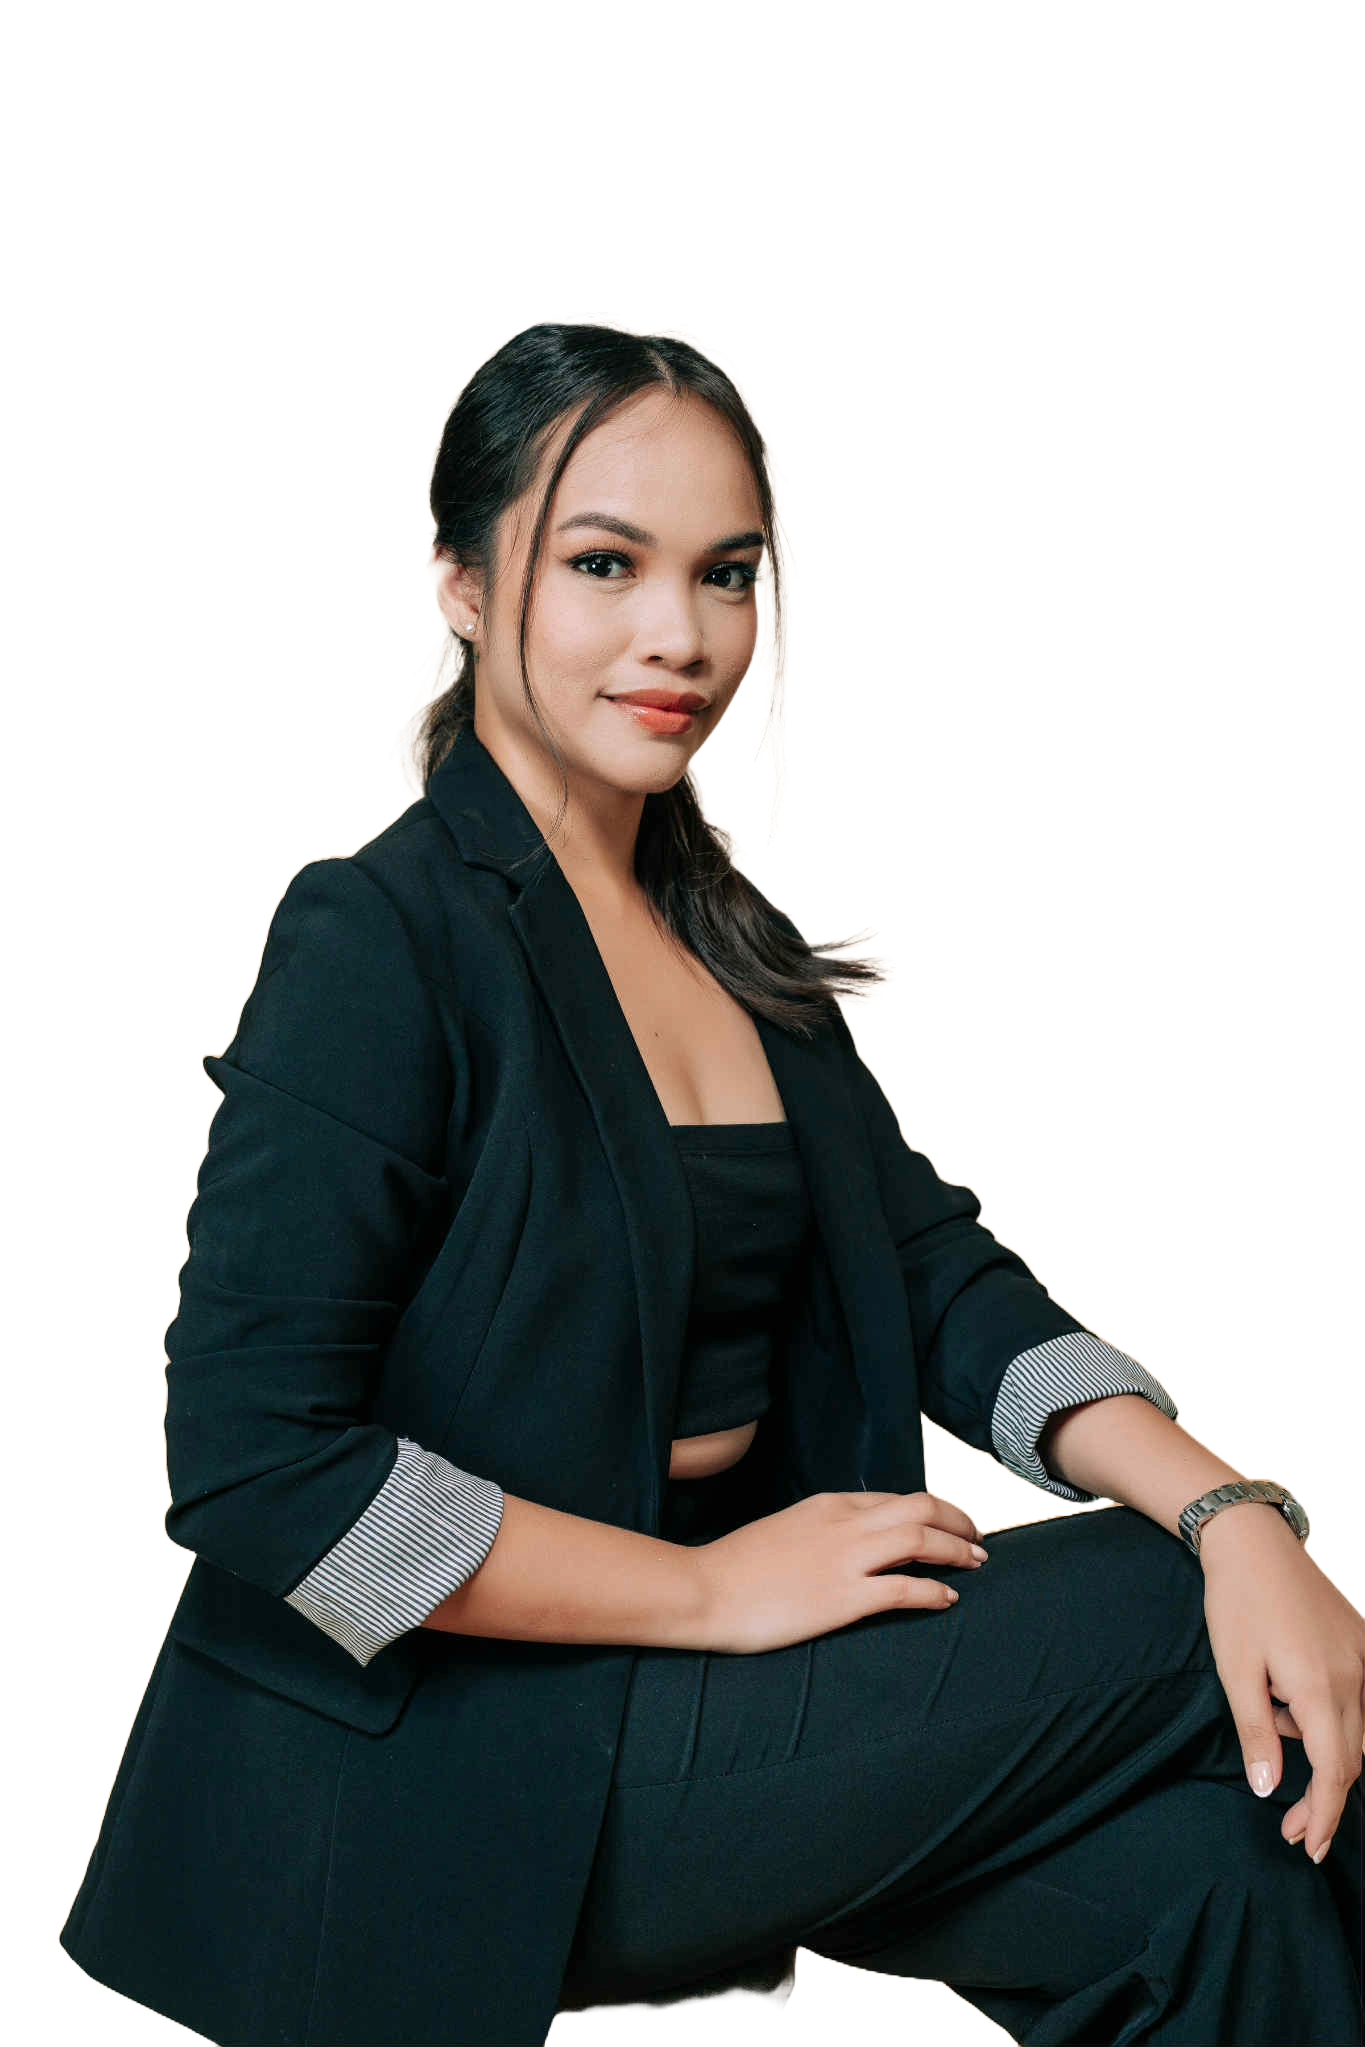
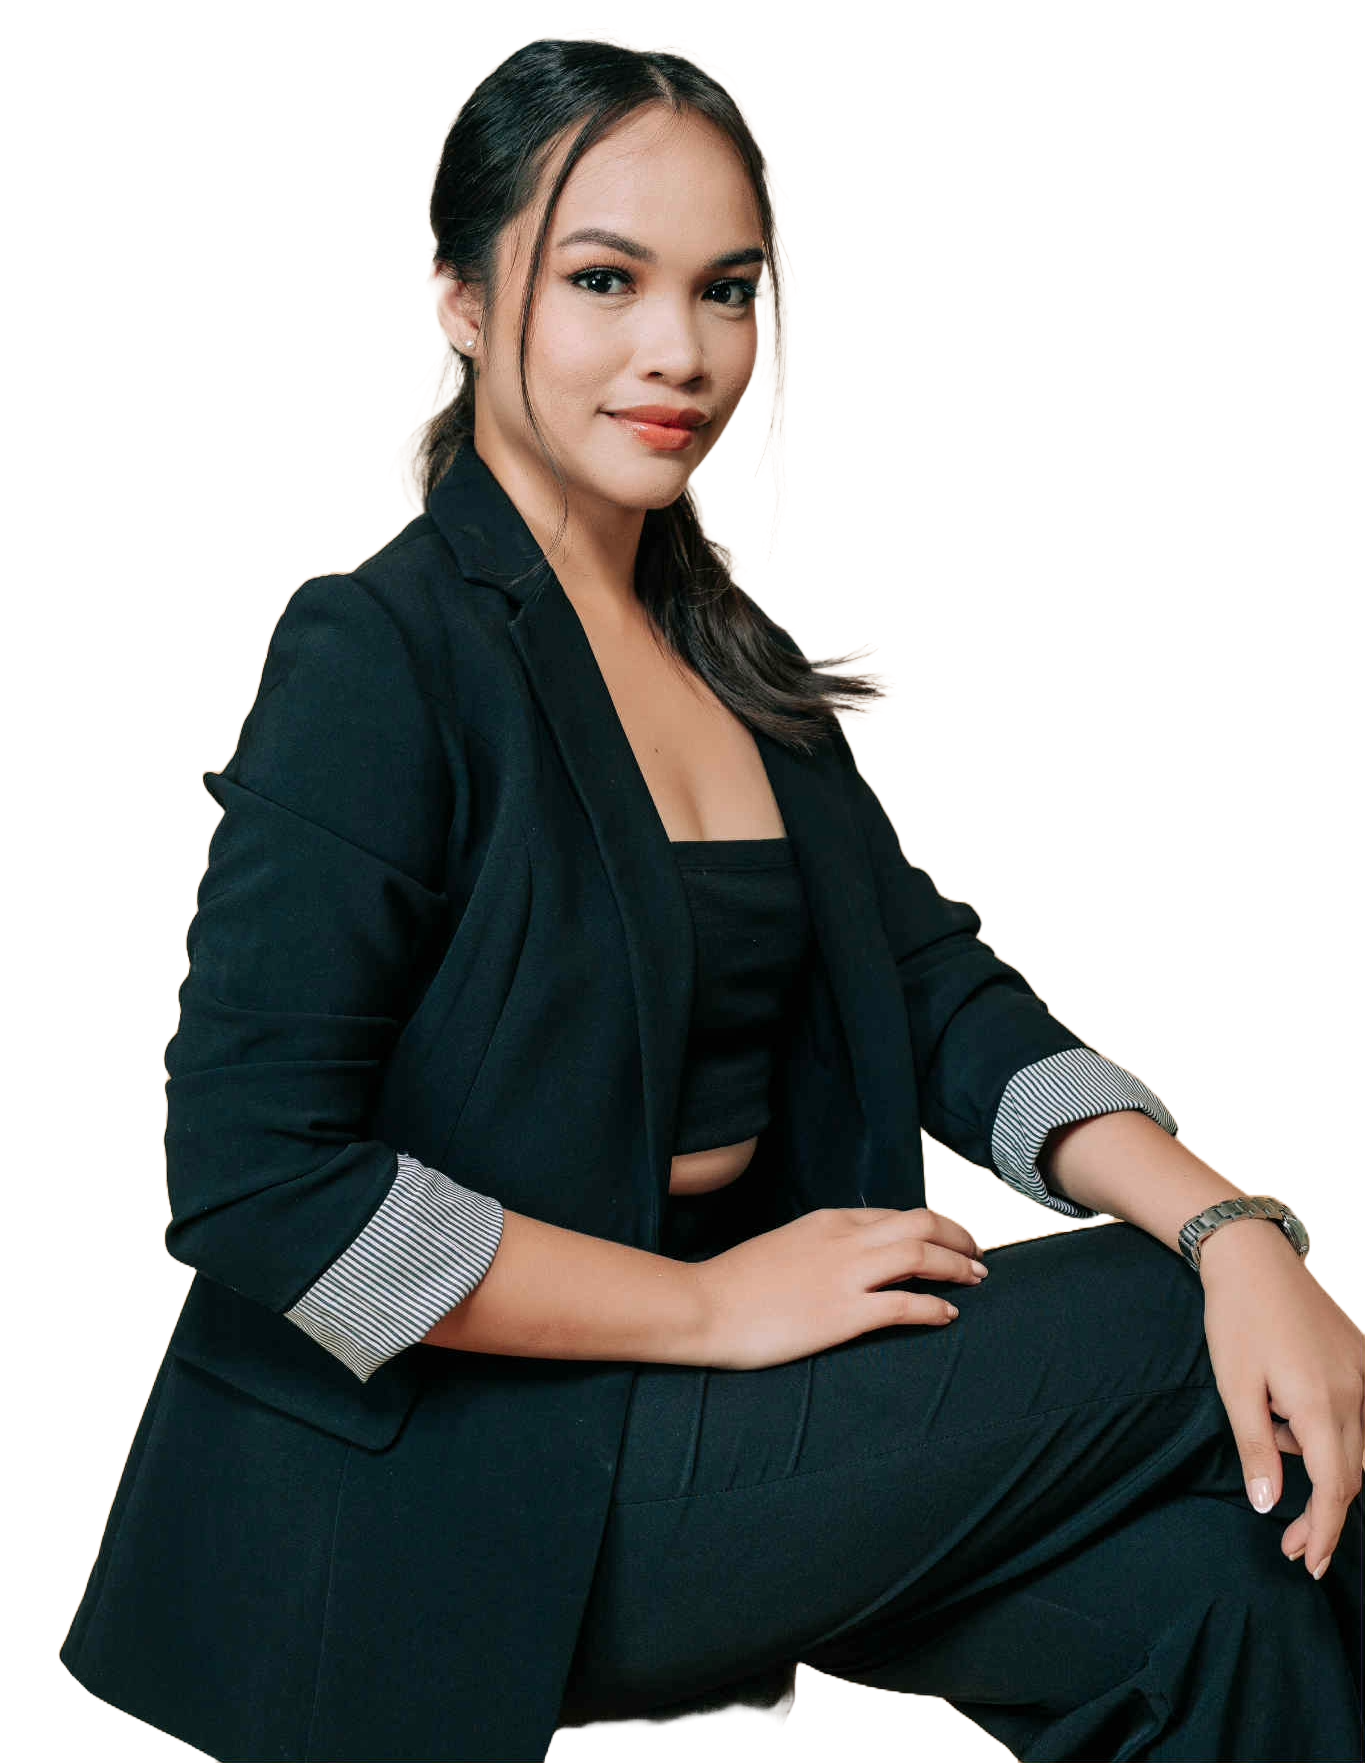
Update hero layout and fix hydration errors - Changed hero to 3-column layout with centered image - Fixed hydration mismatches in all components - Updated navbar transparency - Removed spacing between navbar and hero - Updated all content to VA/SMM/Ads focus

diff --git a/components/Hero.tsx b/components/Hero.tsx
@@ -1,6 +1,13 @@
 "use client";
 
+import { useEffect, useState } from "react";
+
 export default function Hero() {
+  const [mounted, setMounted] = useState(false);
+
+  useEffect(() => {
+    setMounted(true);
+  }, []);
   const stats = [
     { number: "08+", label: "Years Experience in Social Media Management & Advertising", icon: "💼" },
     { number: "500+", label: "Successful Ad Campaigns Delivered Worldwide", icon: "🎯" },
@@ -10,79 +17,76 @@ export default function Hero() {
   return (
     <section
       id="home"
-      className="section-padding bg-background-pink pt-32 md:pt-40 relative overflow-visible"
+      className="section-padding bg-background-pink pt-20 md:pt-24 relative overflow-visible"
     >
       <div className="container-custom">
-        <div className="grid lg:grid-cols-2 gap-12 lg:gap-16 items-start">
+        <div className="grid lg:grid-cols-[28%_40%_32%] gap-8 lg:gap-12 items-end">
           {/* Left Column - Text Content */}
-          <div className="space-y-6 animate-fade-in order-2 lg:order-1">
+          <div className="space-y-5 animate-fade-in order-2 lg:order-1">
             <div className="inline-block">
-              <span className="text-sm font-semibold text-accent-orange uppercase tracking-wider">
-                HI THERE!
+              <span className="bg-white/80 backdrop-blur-sm text-gray-700 text-sm px-4 py-2 rounded-full font-medium">
+                Hello, I&apos;m
               </span>
             </div>
-            <h1 className="text-4xl md:text-5xl lg:text-6xl font-bold leading-tight">
-              I&apos;M{" "}
-              <span className="text-accent-orange">Menilou Marvida</span>
+            <h1 className="text-4xl md:text-5xl lg:text-6xl font-bold leading-tight text-gray-900">
+              Menilou Marvida
             </h1>
-            <p className="text-xl md:text-2xl text-gray-600">
-              Your Virtual Assistant for Social Media & Ads
+            <p className="text-lg md:text-xl font-medium text-gray-700">
+              Virtual Assistant, Social Media Manager & Ads Specialist
             </p>
-            <p className="text-gray-600 leading-relaxed max-w-lg">
-              I help businesses grow their online presence through strategic social media management and high-converting ad campaigns. Let&apos;s turn your followers into customers!
+            <p className="text-gray-600 leading-relaxed text-base">
+              I help businesses grow through strategic social media management, effective ad campaigns, and reliable virtual assistance. Let&apos;s elevate your brand together.
             </p>
-            <div className="flex flex-col sm:flex-row gap-4 pt-4">
-              <button className="btn-primary">BOOK A CONSULTATION</button>
-              <button className="btn-secondary">VIEW CASE STUDIES</button>
+            <div className="pt-2">
+              <button className="bg-accent-orange text-white text-base px-8 py-3.5 rounded-full font-medium hover:bg-accent-orange/90 transition-all duration-300 hover:scale-105 inline-flex items-center gap-2 shadow-lg">
+                Hire Me
+                <svg xmlns="http://www.w3.org/2000/svg" className="h-5 w-5" viewBox="0 0 20 20" fill="currentColor">
+                  <path fillRule="evenodd" d="M10.293 3.293a1 1 0 011.414 0l6 6a1 1 0 010 1.414l-6 6a1 1 0 01-1.414-1.414L14.586 11H3a1 1 0 110-2h11.586l-4.293-4.293a1 1 0 010-1.414z" clipRule="evenodd" />
+                </svg>
+              </button>
             </div>
           </div>
 
-          {/* Right Column - Image with Floating Stats Cards */}
-          <div className="relative order-1 lg:order-2 animate-fade-in min-h-[500px] lg:min-h-[600px]">
-            {/* Profile Image - Left Side */}
-            <div className="relative lg:absolute lg:left-0 lg:top-0 w-full lg:w-[60%] h-full">
-              <div className="relative h-[500px] lg:h-[600px] rounded-3xl overflow-hidden">
-                <img
-                  src="/hero-image.png"
-                  alt="Professional portrait"
-                  className="w-full h-full object-cover object-center"
-                  style={{ objectPosition: "center 20%" }}
-                  onError={(e) => {
-                    // Fallback gradient if image not found
-                    const target = e.currentTarget;
-                    target.style.display = 'none';
-                    if (target.parentElement) {
-                      target.parentElement.style.background = 'linear-gradient(135deg, #f5e6d3 0%, #d4a574 100%)';
-                    }
-                  }}
-                />
-              </div>
+          {/* Center - Hero Image (No Box, Natural Blend) */}
+          <div className="order-1 lg:order-2 animate-fade-in flex justify-center items-end">
+            <div className="relative w-full">
+              <img
+                src="/hero-image.png"
+                alt="Professional portrait"
+                className="w-full h-auto object-contain object-bottom"
+                style={{ maxHeight: '650px' }}
+                onError={(e) => {
+                  // Fallback 
+                  const target = e.currentTarget;
+                  target.style.display = 'none';
+                }}
+              />
             </div>
+          </div>
 
-            {/* Floating Stats Cards - Right Side, overlaying the image area */}
-            <div className="relative lg:absolute lg:right-0 lg:top-1/2 lg:-translate-y-1/2 space-y-6 mt-6 lg:mt-0 lg:w-[55%]">
-              {stats.map((stat, index) => (
-                <div
-                  key={index}
-                  className="bg-white rounded-2xl p-6 shadow-lg hover:shadow-xl transition-all duration-300 hover:-translate-y-1 animate-slide-up"
-                  style={{ animationDelay: `${index * 0.15}s` }}
-                >
-                  <div className="flex items-start gap-4">
-                    <div className="w-16 h-16 rounded-full bg-white border-2 border-gray-100 flex items-center justify-center text-2xl flex-shrink-0 shadow-sm">
-                      {stat.icon}
+          {/* Right Column - Stats Cards */}
+          <div className="order-3 space-y-5 animate-fade-in">
+            {stats.map((stat, index) => (
+              <div
+                key={index}
+                className="bg-white/90 backdrop-blur-sm rounded-3xl p-5 shadow-md hover:shadow-lg transition-all duration-300 hover:-translate-y-1 animate-slide-up"
+                style={mounted ? { animationDelay: `${index * 0.15}s` } : undefined}
+              >
+                <div className="flex items-start gap-4">
+                  <div className="w-14 h-14 rounded-full bg-white flex items-center justify-center text-2xl flex-shrink-0 shadow-sm">
+                    {stat.icon}
+                  </div>
+                  <div className="flex-1">
+                    <div className="text-3xl lg:text-4xl font-bold text-gray-900 mb-1">
+                      {stat.number}
                     </div>
-                    <div className="flex-1">
-                      <div className="text-4xl font-bold text-gray-900 mb-2">
-                        {stat.number}
-                      </div>
-                      <div className="text-sm text-gray-600 leading-relaxed">
-                        {stat.label}
-                      </div>
+                    <div className="text-xs lg:text-sm text-gray-600 leading-snug">
+                      {stat.label}
                     </div>
                   </div>
                 </div>
-              ))}
-            </div>
+              </div>
+            ))}
           </div>
         </div>
       </div>

diff --git a/components/Header.tsx b/components/Header.tsx
@@ -5,11 +5,14 @@ import { useState, useEffect } from "react";
 export default function Header() {
   const [isScrolled, setIsScrolled] = useState(false);
   const [isMobileMenuOpen, setIsMobileMenuOpen] = useState(false);
+  const [mounted, setMounted] = useState(false);
 
   useEffect(() => {
+    setMounted(true);
     const handleScroll = () => {
       setIsScrolled(window.scrollY > 20);
     };
+    handleScroll(); // Check initial scroll position
     window.addEventListener("scroll", handleScroll);
     return () => window.removeEventListener("scroll", handleScroll);
   }, []);
@@ -25,7 +28,7 @@ export default function Header() {
   return (
     <header
       className={`fixed top-0 left-0 right-0 z-50 transition-all duration-500 ease-out ${
-        isScrolled 
+        mounted && isScrolled 
           ? "bg-white/80 backdrop-blur-md shadow-lg" 
           : "bg-transparent"
       }`}
@@ -47,11 +50,7 @@ export default function Header() {
               <a
                 key={link.href}
                 href={link.href}
-                className={`text-sm font-medium transition-colors duration-300 ${
-                  isScrolled 
-                    ? "text-gray-700 hover:text-accent-orange" 
-                    : "text-gray-800 hover:text-accent-orange"
-                }`}
+                className="text-sm font-medium text-gray-800 hover:text-accent-orange transition-colors duration-300"
               >
                 {link.label}
               </a>
@@ -97,9 +96,7 @@ export default function Header() {
             isMobileMenuOpen ? "max-h-96 opacity-100 mt-4" : "max-h-0 opacity-0"
           }`}
         >
-          <div className={`flex flex-col gap-4 py-4 px-4 rounded-lg ${
-            isScrolled ? "bg-white/90" : "bg-white/90 backdrop-blur-md"
-          }`}>
+          <div className="flex flex-col gap-4 py-4 px-4 rounded-lg bg-white/90 backdrop-blur-md">
             {navLinks.map((link) => (
               <a
                 key={link.href}

diff --git a/components/Portfolio.tsx b/components/Portfolio.tsx
@@ -1,6 +1,13 @@
 "use client";
 
+import { useEffect, useState } from "react";
+
 export default function Portfolio() {
+  const [mounted, setMounted] = useState(false);
+
+  useEffect(() => {
+    setMounted(true);
+  }, []);
   const portfolioItems = [
     {
       title: "Fashion Brand",
@@ -51,11 +58,11 @@ export default function Portfolio() {
 
         <div className="grid sm:grid-cols-2 lg:grid-cols-3 gap-6 mb-12">
           {portfolioItems.map((item, index) => (
-            <div
-              key={index}
-              className="group relative overflow-hidden rounded-xl bg-gray-800 aspect-square cursor-pointer animate-scale-in"
-              style={{ animationDelay: `${index * 0.1}s` }}
-            >
+              <div
+                key={index}
+                className="group relative overflow-hidden rounded-xl bg-gray-800 aspect-square cursor-pointer animate-scale-in"
+                style={mounted ? { animationDelay: `${index * 0.1}s` } : undefined}
+              >
               <div className="w-full h-full flex items-center justify-center text-6xl bg-gradient-to-br from-gray-700 to-gray-900 transition-transform duration-500 group-hover:scale-110">
                 {item.image}
               </div>

diff --git a/components/Partners.tsx b/components/Partners.tsx
@@ -1,6 +1,13 @@
 "use client";
 
+import { useEffect, useState } from "react";
+
 export default function Partners() {
+  const [mounted, setMounted] = useState(false);
+
+  useEffect(() => {
+    setMounted(true);
+  }, []);
   const partners = Array.from({ length: 12 }, (_, i) => ({
     name: `Partner ${i + 1}`,
     icon: "🏢",
@@ -26,7 +33,7 @@ export default function Partners() {
             <div
               key={index}
               className="card bg-white/50 flex items-center justify-center h-24 group cursor-pointer animate-scale-in opacity-60 hover:opacity-100 transition-opacity duration-300"
-              style={{ animationDelay: `${index * 0.05}s` }}
+              style={mounted ? { animationDelay: `${index * 0.05}s` } : undefined}
             >
               <div className="text-3xl transition-transform duration-300 group-hover:scale-110">
                 {partner.icon}

diff --git a/components/Technologies.tsx b/components/Technologies.tsx
@@ -1,6 +1,13 @@
 "use client";
 
+import { useEffect, useState } from "react";
+
 export default function Technologies() {
+  const [mounted, setMounted] = useState(false);
+
+  useEffect(() => {
+    setMounted(true);
+  }, []);
   const technologies = [
     { name: "Facebook", icon: "📘" },
     { name: "Instagram", icon: "📷" },
@@ -35,7 +42,7 @@ export default function Technologies() {
             <div
               key={index}
               className="card bg-white w-24 h-24 flex flex-col items-center justify-center group cursor-pointer animate-scale-in"
-              style={{ animationDelay: `${index * 0.05}s` }}
+              style={mounted ? { animationDelay: `${index * 0.05}s` } : undefined}
             >
               <div className="text-3xl mb-2 transition-transform duration-300 group-hover:scale-125">
                 {tech.icon}

diff --git a/components/Services.tsx b/components/Services.tsx
@@ -1,6 +1,13 @@
 "use client";
 
+import { useEffect, useState } from "react";
+
 export default function Services() {
+  const [mounted, setMounted] = useState(false);
+
+  useEffect(() => {
+    setMounted(true);
+  }, []);
   const services = [
     {
       title: "Social Media Management",
@@ -52,7 +59,7 @@ export default function Services() {
             <div
               key={index}
               className={`card ${service.bgColor} group cursor-pointer animate-scale-in`}
-              style={{ animationDelay: `${index * 0.1}s` }}
+              style={mounted ? { animationDelay: `${index * 0.1}s` } : undefined}
             >
               <div className="text-5xl mb-4 transition-transform duration-300 group-hover:scale-110">
                 {service.icon}
